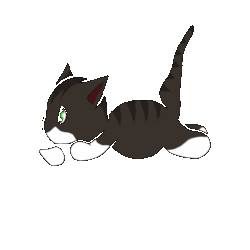
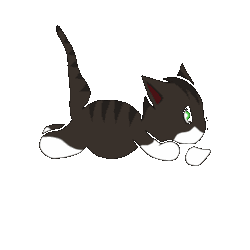
Face the chase cat right so it runs away from the shark.

Changed region(s): [[0.14, 0.084, 0.868, 0.672]]

diff --git a/public/js/chaseCatRun.js b/public/js/chaseCatRun.js
@@ -1,7 +1,7 @@
 /** Chase motion driver — cat GIF + shark bite / post-eat WebPs. */
 
-export const CAT_RUN_GIF = "./assets/chase/cat-run.webp?v=gif2";
-export const CAT_STILL = "./assets/chase/cat-run-still.png?v=match1";
+export const CAT_RUN_GIF = "./assets/chase/cat-run.webp?v=face-right1";
+export const CAT_STILL = "./assets/chase/cat-run-still.png?v=face-right1";
 export const SHARK_BITE = "./assets/chase/shark-bite.webp?v=bite1";
 export const SHARK_ATE = "./assets/chase/shark-ate.webp?v=ate1";
 export const SHARK_STILL = "./assets/chase/shark.png?v=still1";

diff --git a/public/js/ui.js b/public/js/ui.js
@@ -282,7 +282,7 @@ function template() {
             <img
               class="chase-cat__frame is-still"
               data-chase-cat-frame
-              src="./assets/chase/cat-run-still.png?v=match1"
+              src="./assets/chase/cat-run-still.png?v=face-right1"
               alt=""
               width="160"
               height="160"
